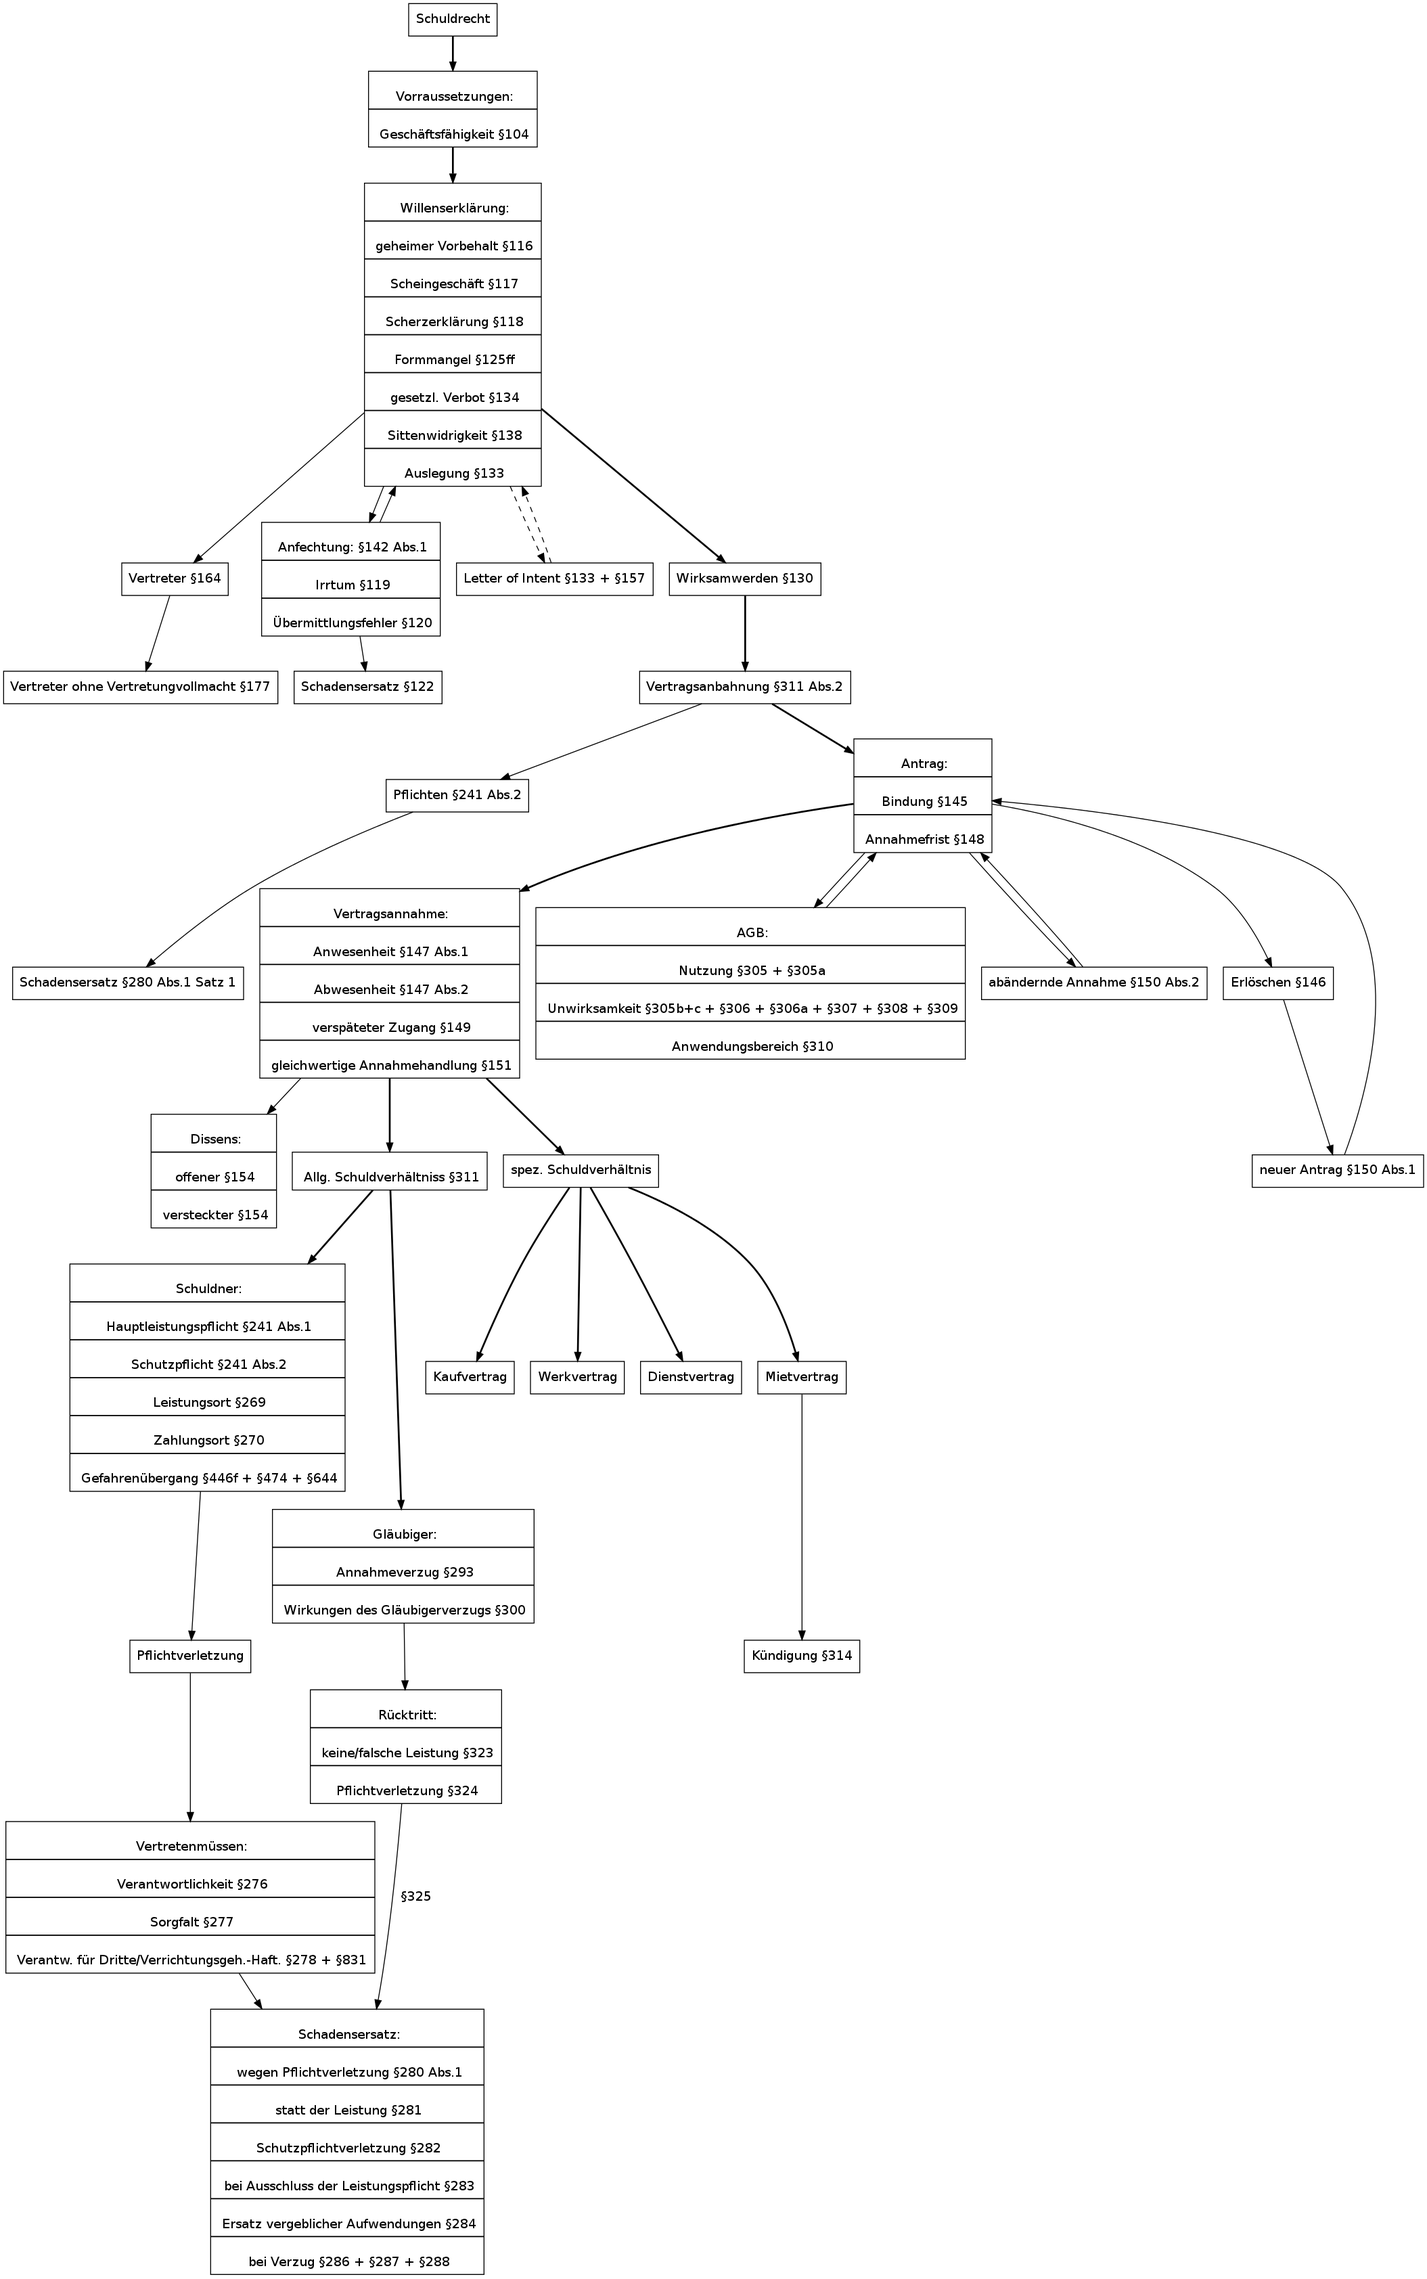
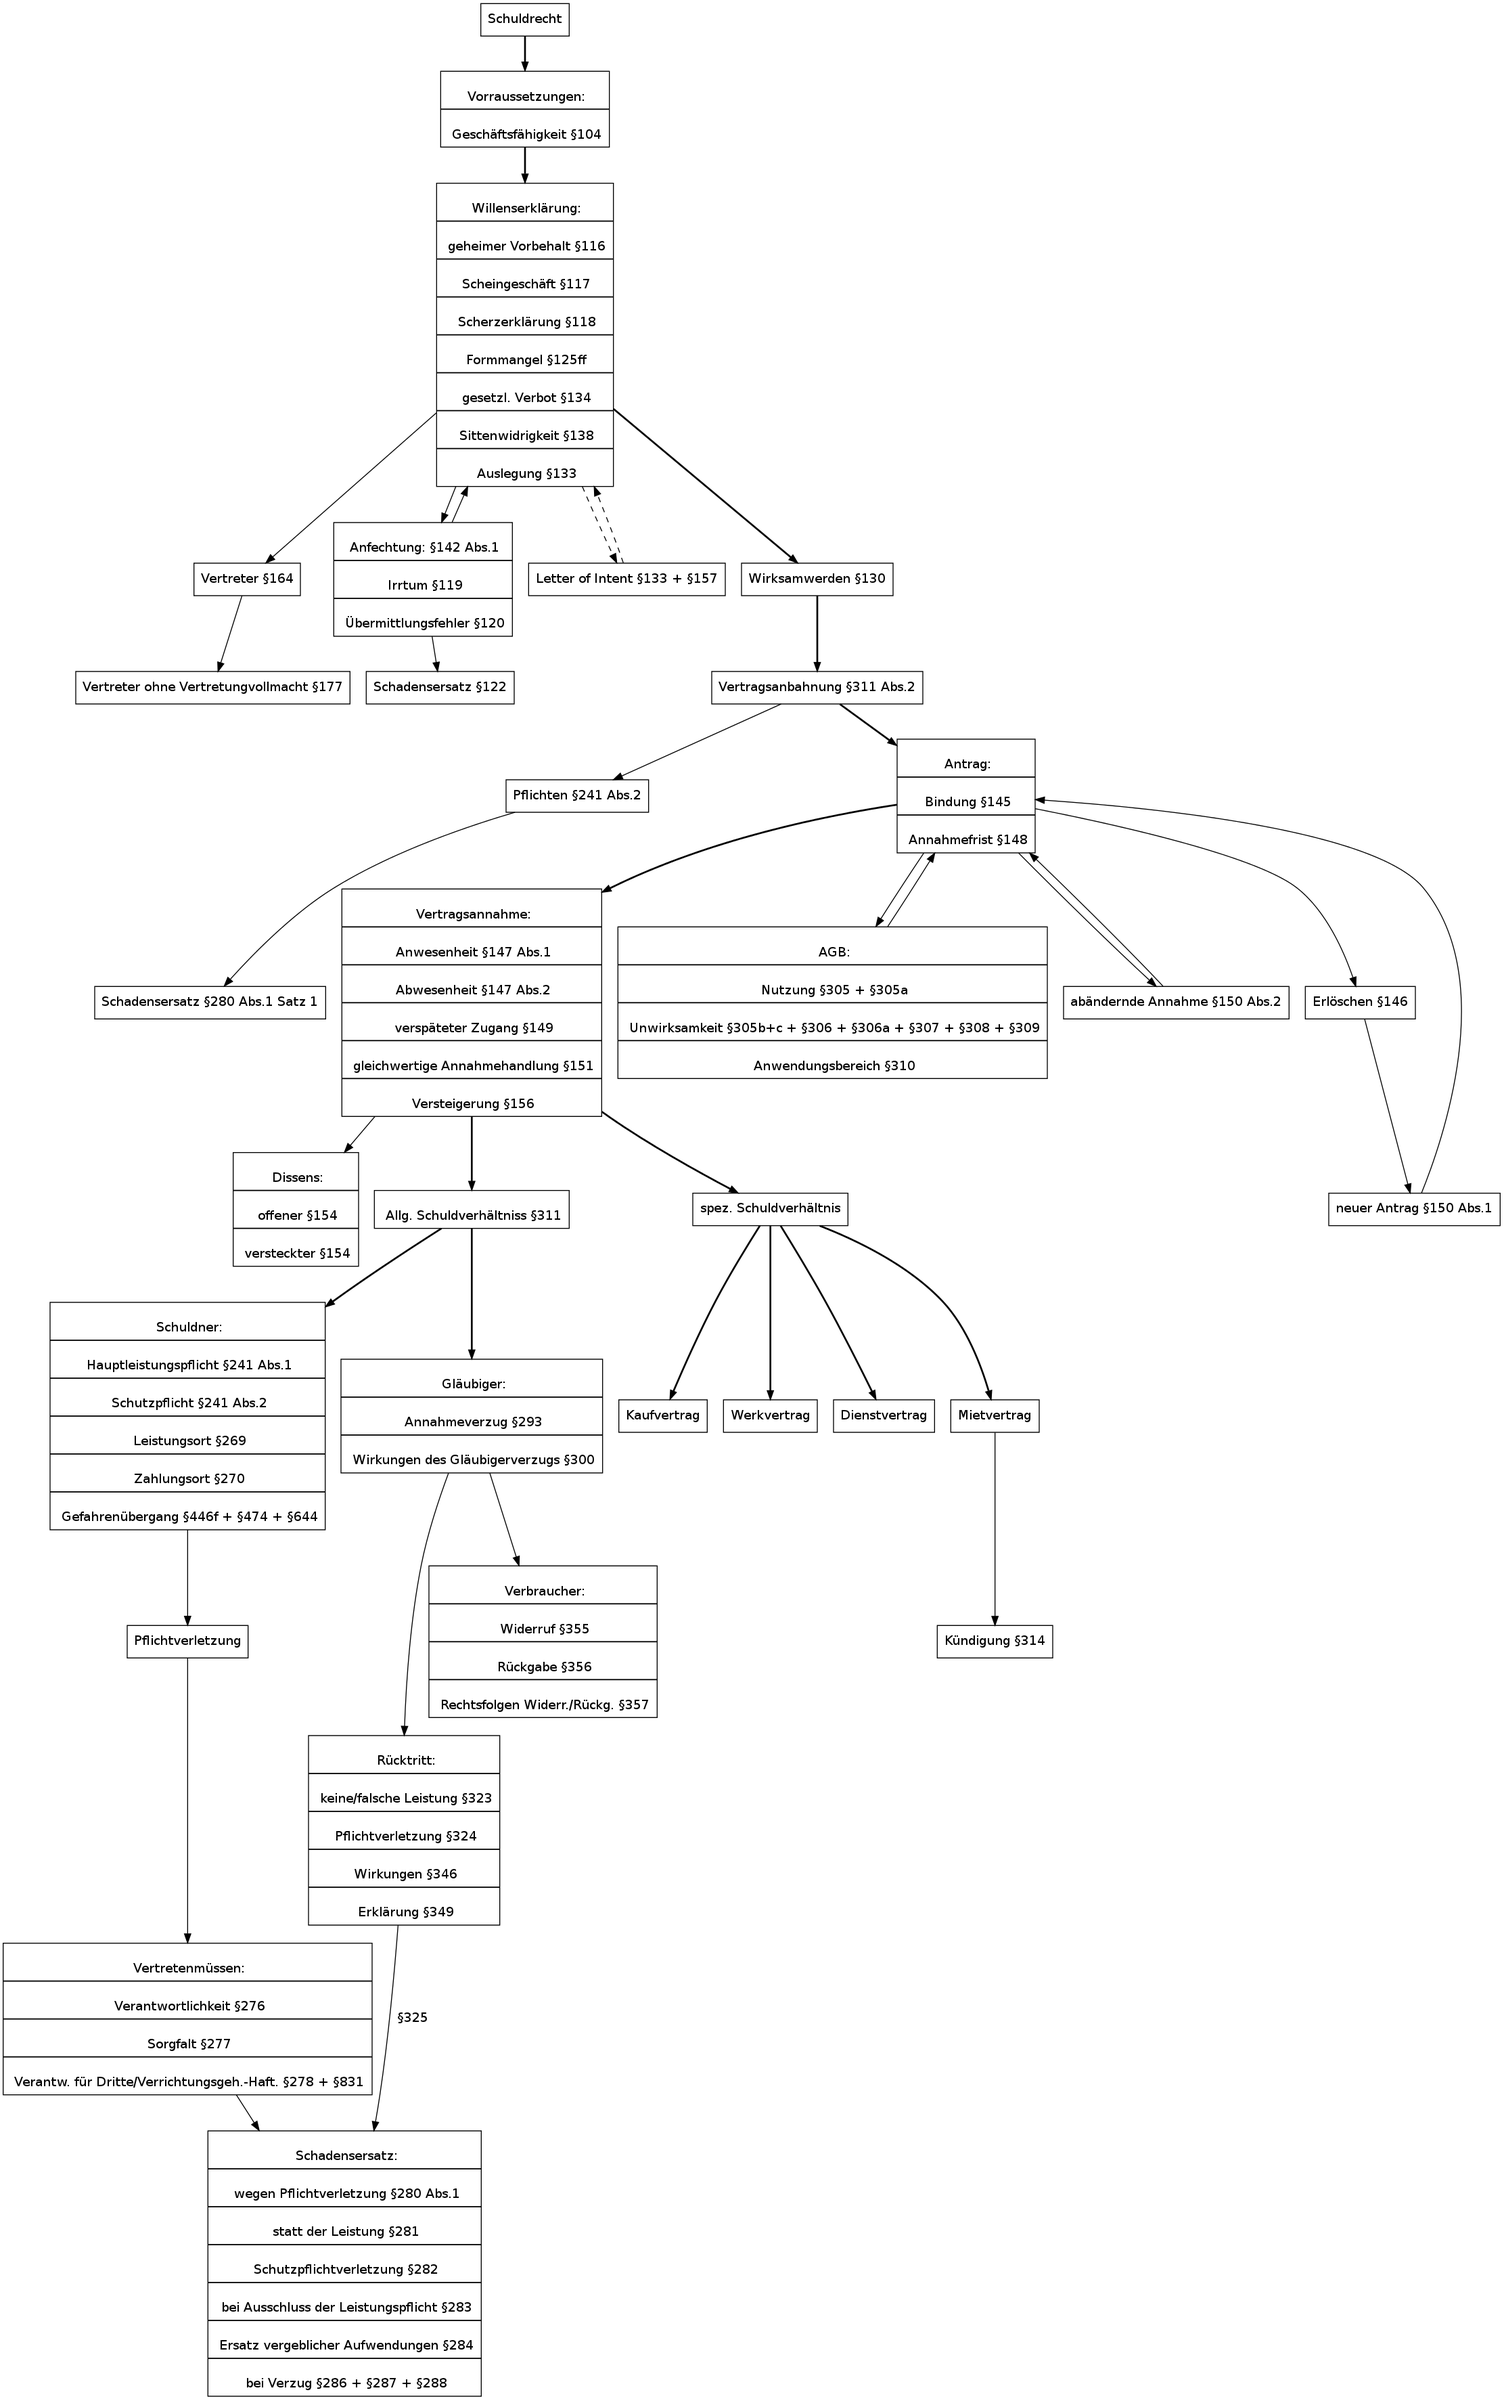
Verbraucher

diff --git a/graph.rb b/graph.rb
@@ -48,7 +48,8 @@ annahme = g.add_nodes( "Vertragsannahme" , "shape" => "record", "label" => "{
   Anwesenheit §147 Abs.1 |
   Abwesenheit §147 Abs.2 |
   verspäteter Zugang §149 |
-  gleichwertige Annahmehandlung §151}")
+  gleichwertige Annahmehandlung §151 |
+  Versteigerung §156}")
 agb = g.add_nodes( "AGB" , "shape" => "record", "label" => "{
   AGB: |
   Nutzung §305 +  §305a |
@@ -90,7 +91,14 @@ glaeubiger = g.add_nodes("Gläubiger", "shape" => "record", "label" => "{
 glaeubiger_rueck = g.add_nodes("Rücktritt", "shape" => "record", "label" => "{
   Rücktritt: |
   keine/falsche Leistung  §323 |
-  Pflichtverletzung §324}")
+  Pflichtverletzung §324 |
+  Wirkungen §346 |
+  Erklärung §349}")
+glaeubiger_verbraucher = g.add_nodes("Verbraucher", "shape" => "record", "label" => "{
+  Verbraucher: |
+  Widerruf  §355 |
+  Rückgabe §356 |
+  Rechtsfolgen Widerr./Rückg. §357}")
 
 spez_schuldverh = g.add_nodes("spez. Schuldverhältnis")
 
@@ -132,6 +140,7 @@ g.add_edges( annahme, schuldverh, "style" => "bold")
 g.add_edges( annahme, spez_schuldverh, "style" => "bold")
 g.add_edges( schuldverh, glaeubiger , "style" => "bold")
 g.add_edges( glaeubiger, glaeubiger_rueck)
+g.add_edges( glaeubiger, glaeubiger_verbraucher)
 g.add_edges( glaeubiger_rueck, schuldner_schadensers, "label" => "§325")
 g.add_edges( schuldverh, schuldner , "style" => "bold")
 g.add_edges( schuldner, schuldner_pflichtverl )
